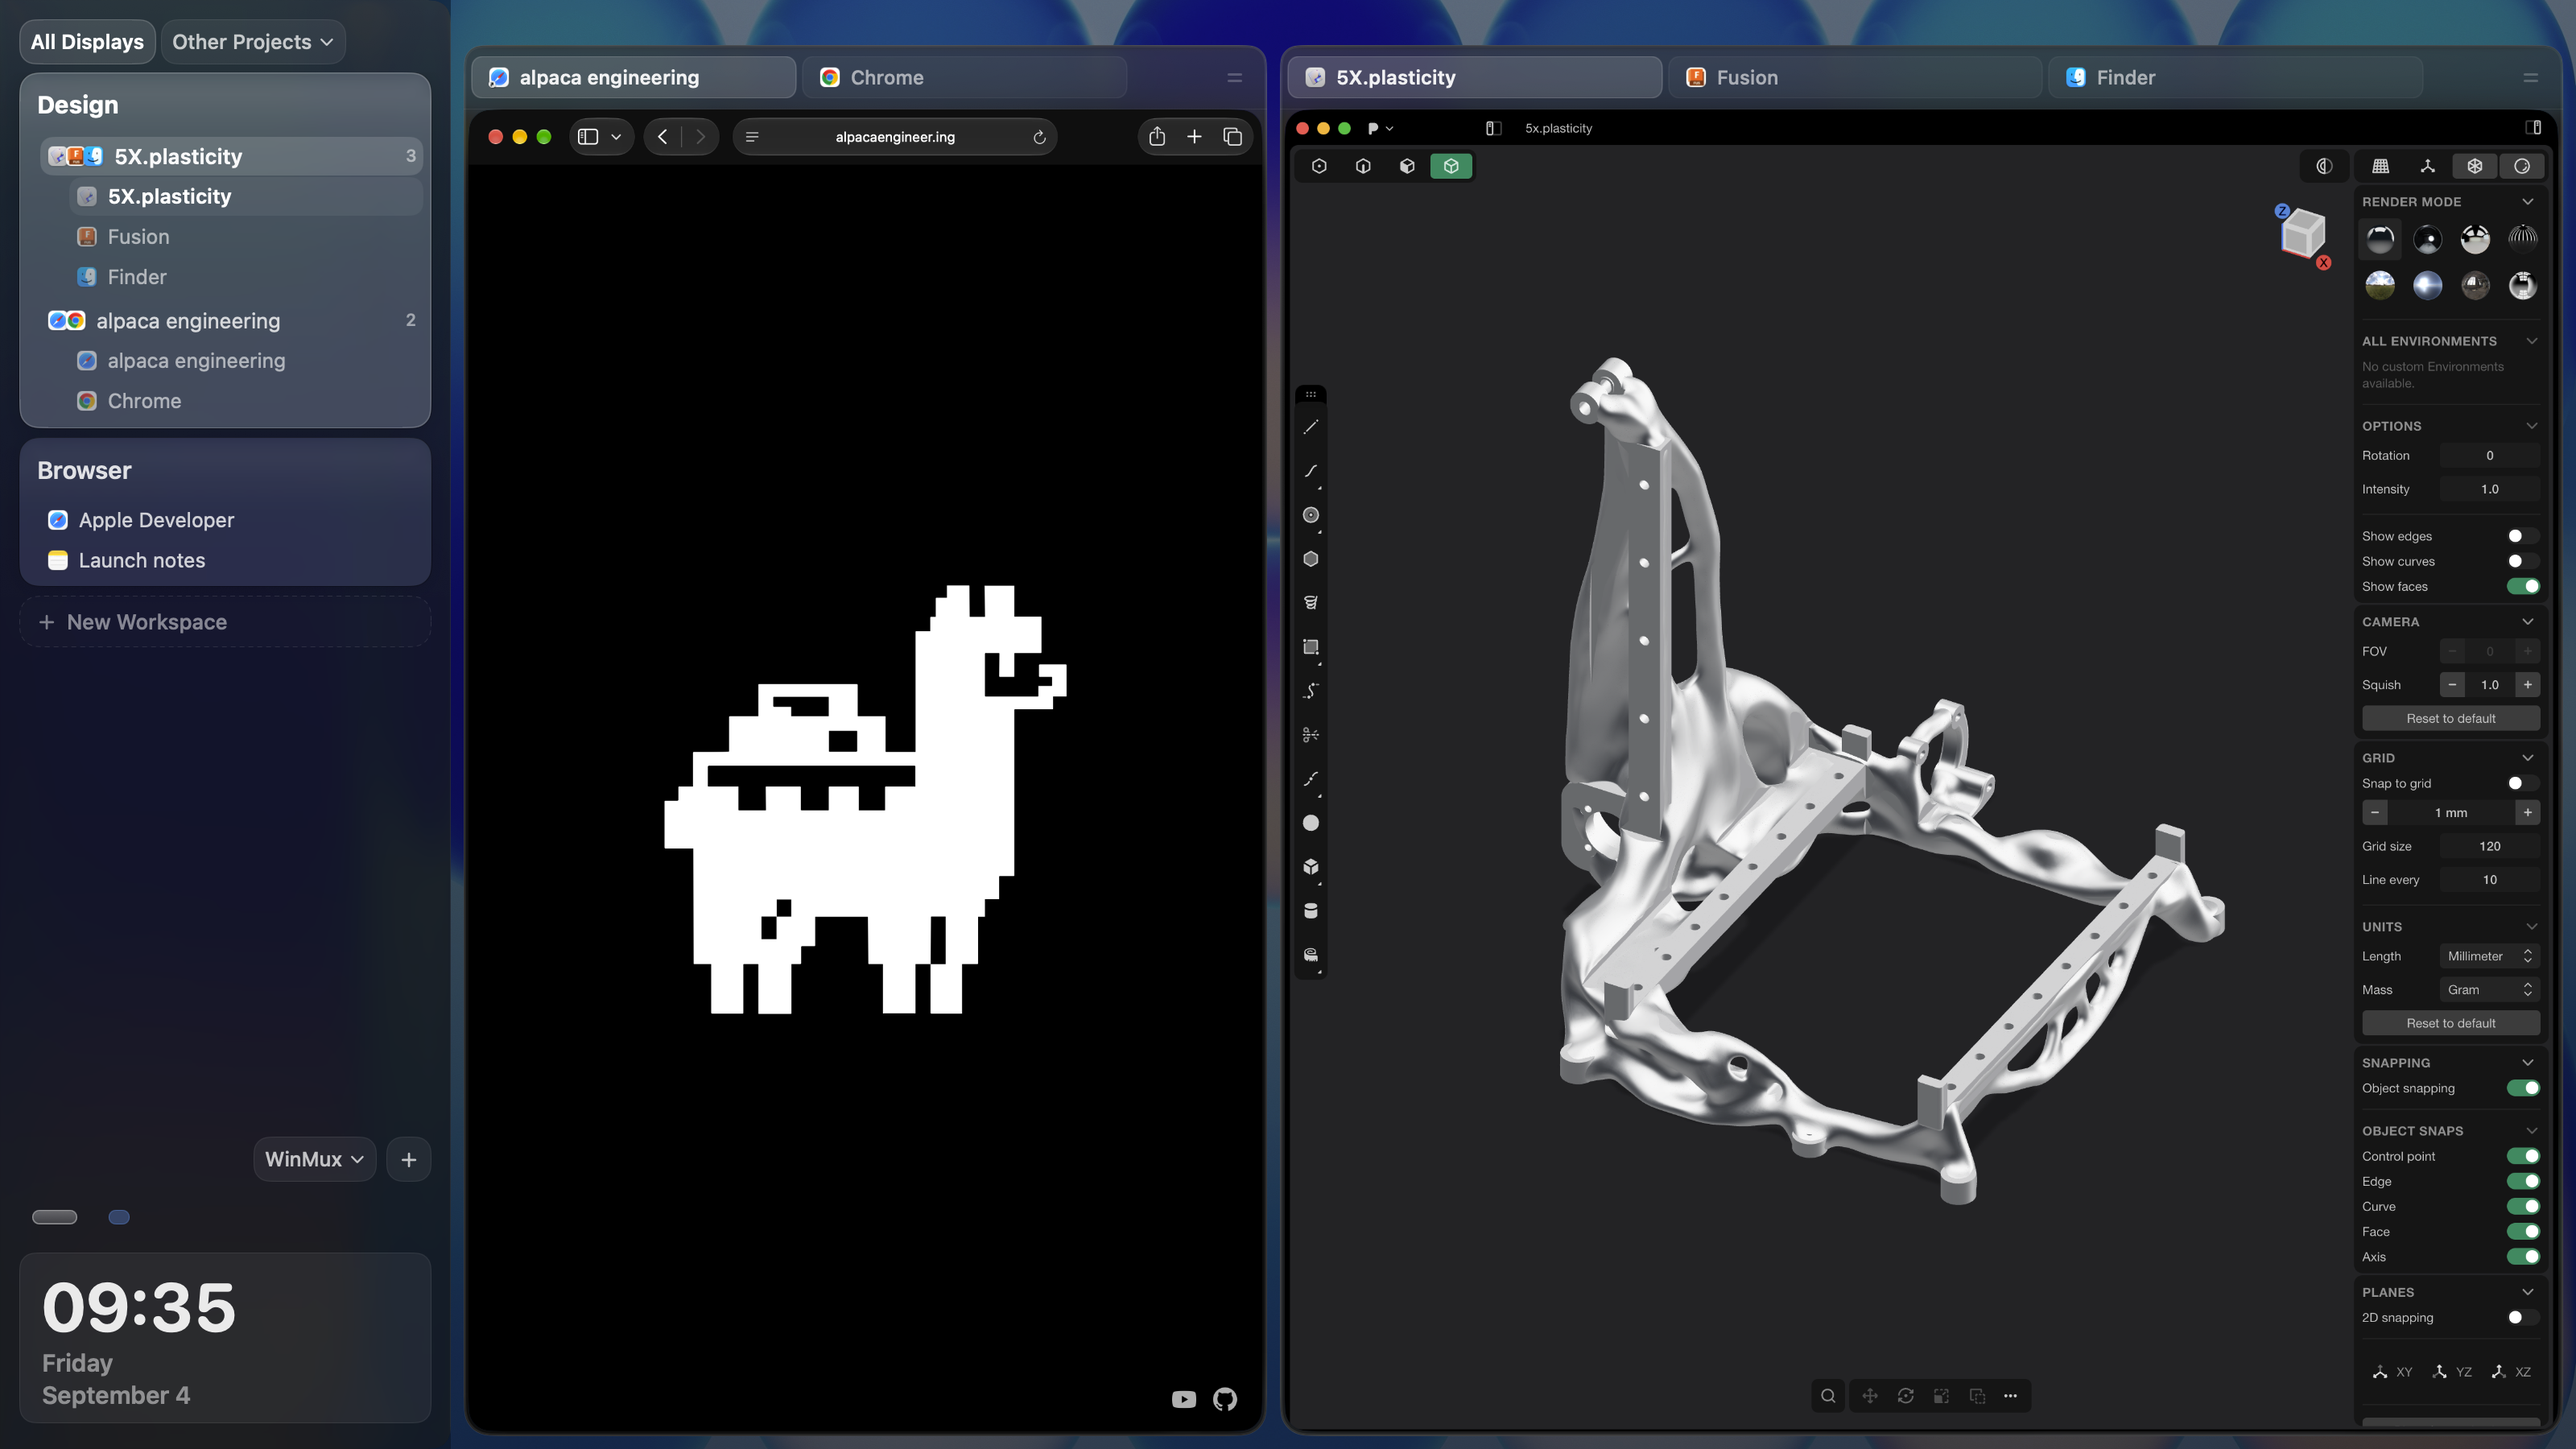
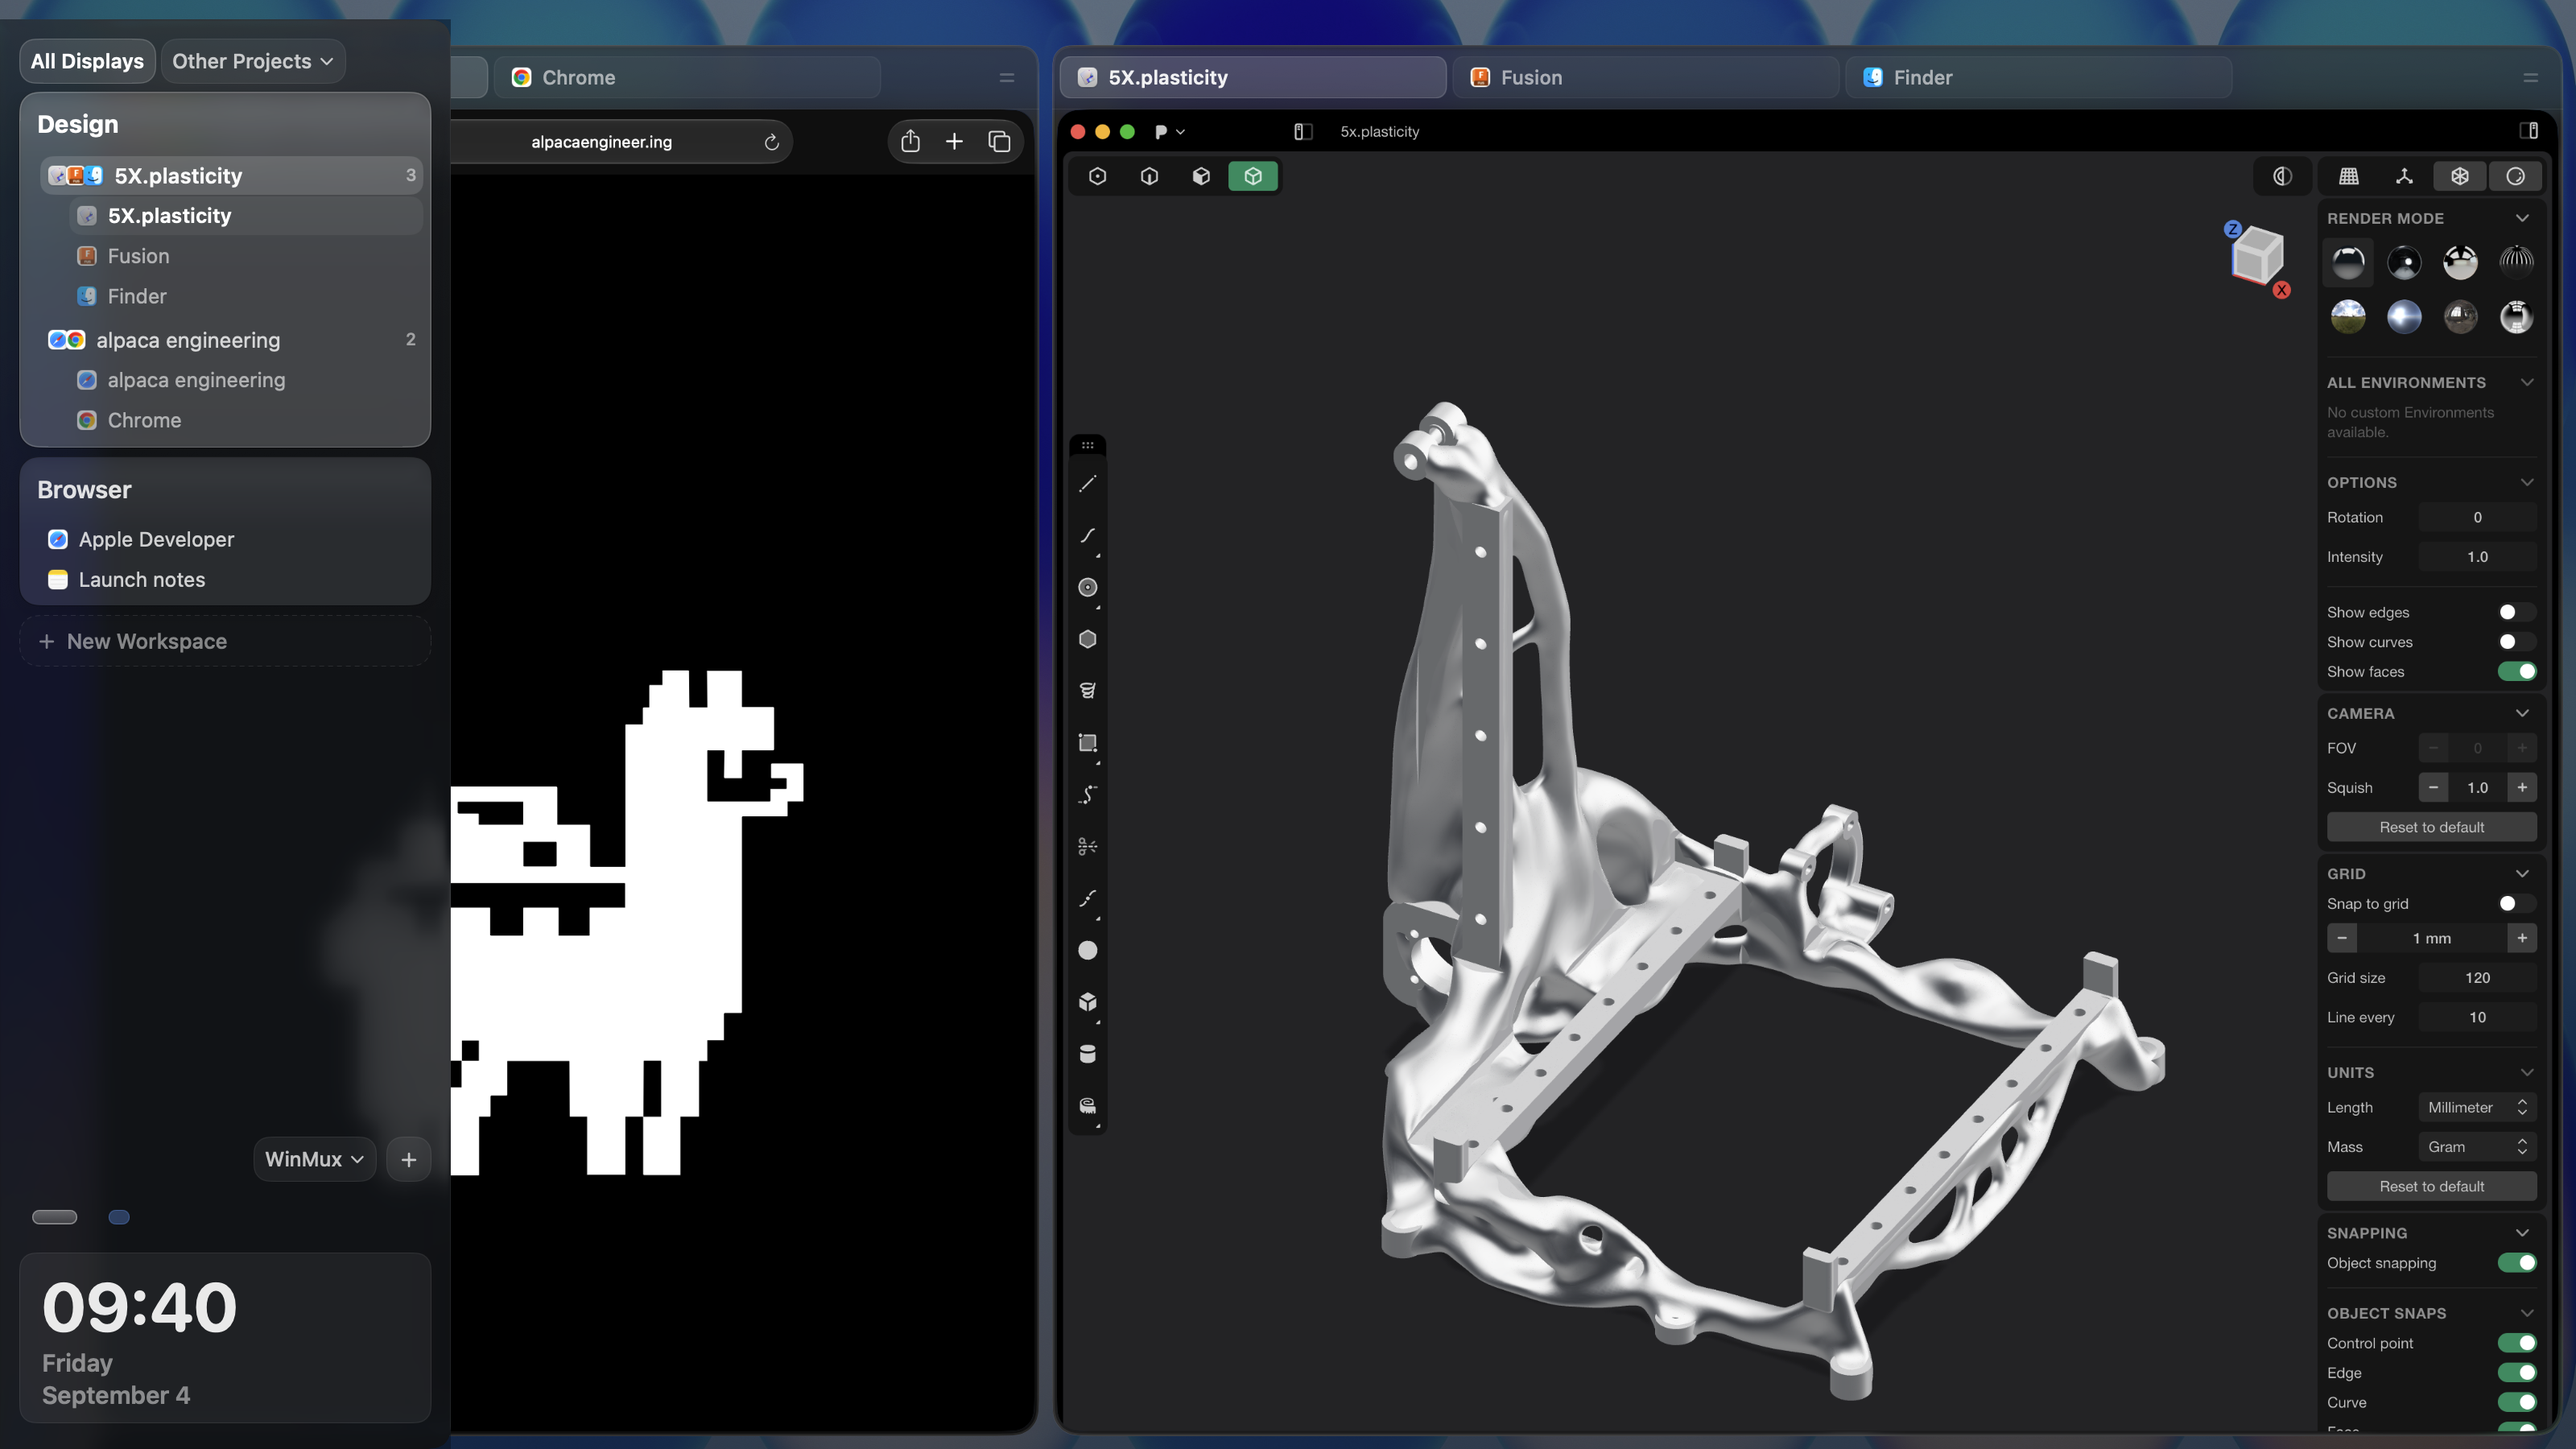
Overlay taller expanded sidebar with top margin

diff --git a/Sources/AppBundle/ui/marketing/WinMuxMarketingRenderer.swift b/Sources/AppBundle/ui/marketing/WinMuxMarketingRenderer.swift
@@ -180,9 +180,13 @@ private struct WinMuxAppsProofCanvas: View {
 
 private struct WinMuxSafariPlasticityProofCanvas: View {
     private let sidebarWidth: CGFloat = 280
+    private let reservedSidebarWidth: CGFloat = 50
+    private let topMargin: CGFloat = 28
+    private let sidebarTopMargin: CGFloat = 12
     private let gutter: CGFloat = 8
-    private var safariWidth: CGFloat { (1_600 - sidebarWidth - 3 * gutter - 12) * 758 / 1974 + 6 }
-    private var plasticityWidth: CGFloat { 1_600 - sidebarWidth - 3 * gutter - safariWidth }
+    // Expansion overlays the tiles; only the collapsed rail reserves layout space.
+    private var safariWidth: CGFloat { (1_600 - reservedSidebarWidth - 3 * gutter - 12) * 758 / 1974 + 6 }
+    private var plasticityWidth: CGFloat { 1_600 - reservedSidebarWidth - 3 * gutter - safariWidth }
     private let tileHeight: CGFloat = 864
 
     var body: some View {
@@ -205,7 +209,7 @@ private struct WinMuxSafariPlasticityProofCanvas: View {
                 shadowOpacity: 0
             )
             .frame(width: safariWidth, height: tileHeight)
-            .offset(x: sidebarWidth + gutter, y: 28)
+            .offset(x: reservedSidebarWidth + gutter, y: topMargin)
 
             MarketingCapturedTabWindow(
                 strip: MarketingFixtures.plasticityTabStrip,
@@ -214,14 +218,15 @@ private struct WinMuxSafariPlasticityProofCanvas: View {
                 shadowOpacity: 0
             )
             .frame(width: plasticityWidth, height: tileHeight)
-            .offset(x: sidebarWidth + 2 * gutter + safariWidth, y: 28)
+            .offset(x: reservedSidebarWidth + 2 * gutter + safariWidth, y: topMargin)
 
         }
         .frame(width: 1_600, height: 900)
         .overlay(alignment: .topLeading) {
             WorkspaceSidebarView(snapshot: MarketingFixtures.sidebarSnapshot)
-                .frame(width: sidebarWidth, height: 900)
+                .frame(width: sidebarWidth, height: 900 - sidebarTopMargin)
                 .background(Color(red: 0.012, green: 0.045, blue: 0.115).opacity(0.50))
+                .offset(y: sidebarTopMargin)
         }
         .clipped()
     }
